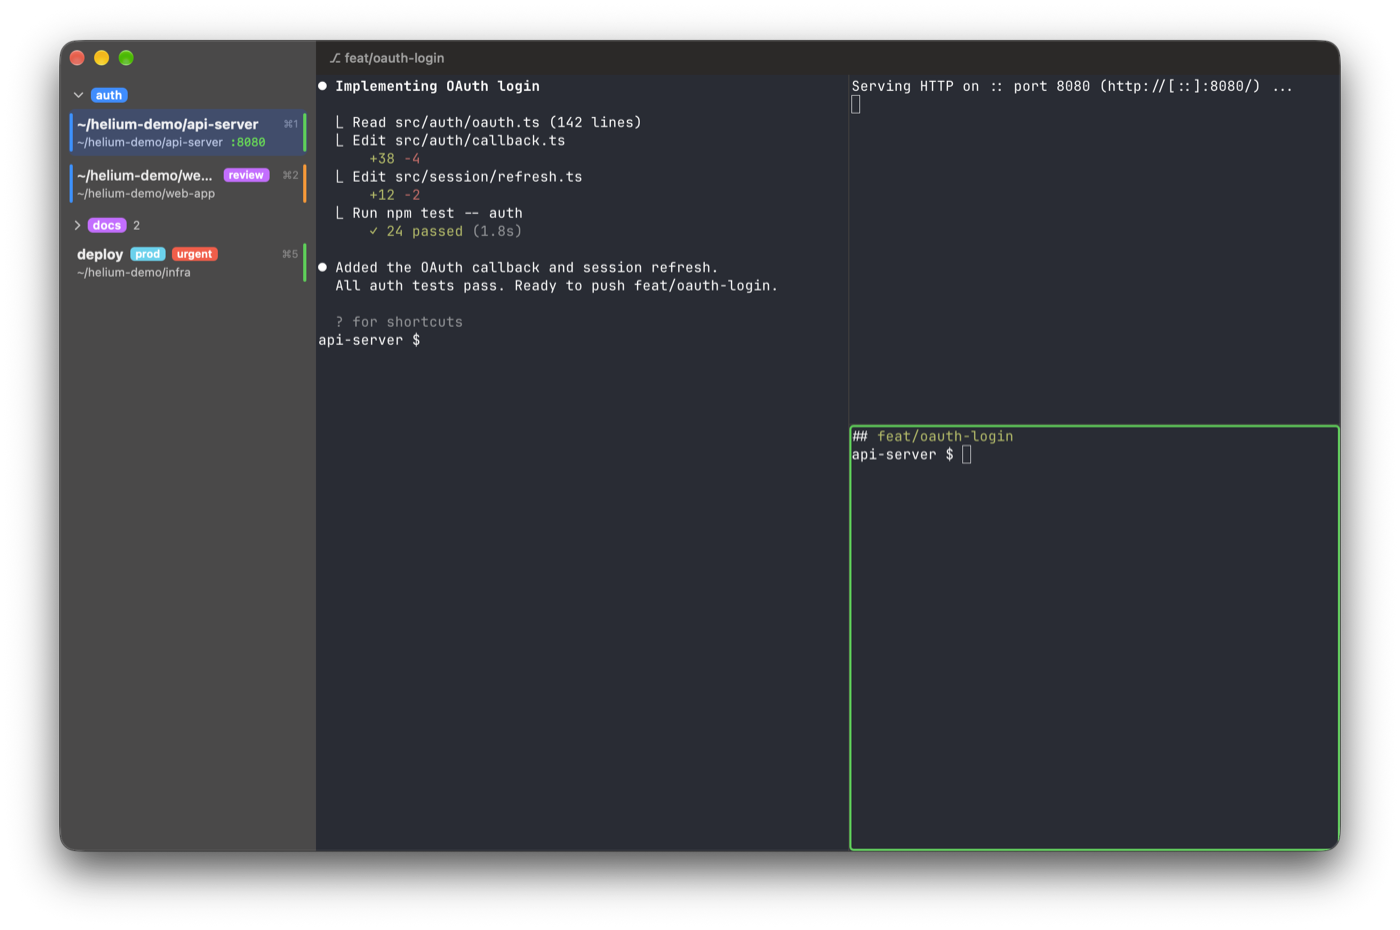
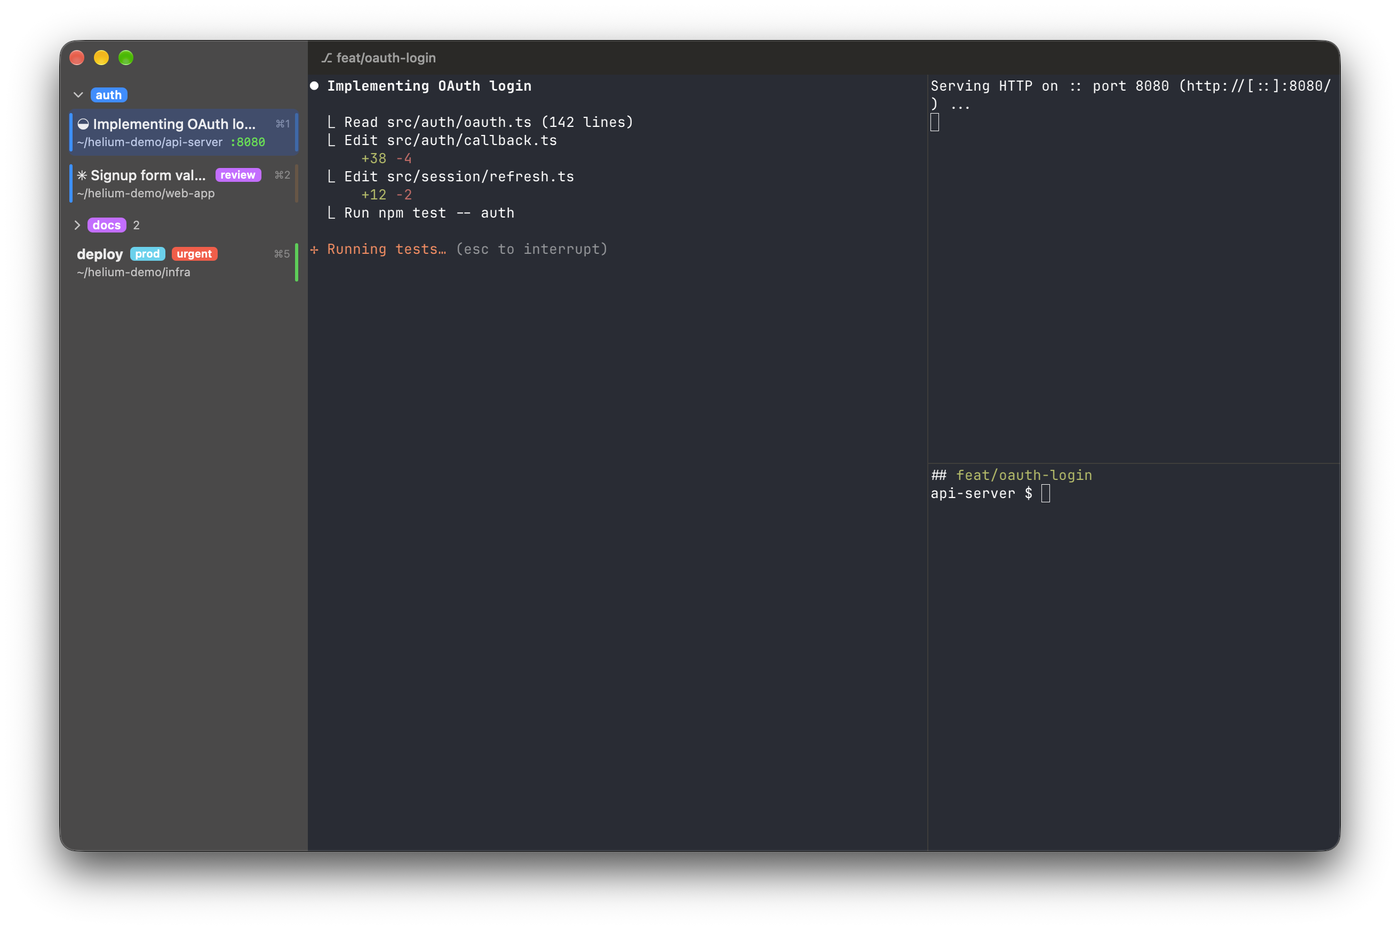
site: an animated demo of the working and waiting edges
A still frame replaces it under prefers-reduced-motion and as the og image.

diff --git a/site/index.html b/site/index.html
@@ -59,12 +59,15 @@
   <p class="tagline">A tiny macOS terminal for coding agents, built on libghostty.</p>
   <p class="links"><a href="#install">Install</a> &middot; <a href="https://github.com/yowmamasita/helium-terminal">GitHub</a></p>
   <div class="shot">
-    <img src="screenshot.webp" fetchpriority="high" width="1400" height="930" alt="Helium Terminal: a sidebar with an auth tab group, a collapsed docs group, colored labels, folders, a listening port and notification edges, next to an agent transcript, a dev server and a shell in split panes with a green notification ring">
+    <picture>
+      <source srcset="screenshot.webp" media="(prefers-reduced-motion: reduce)">
+      <img src="demo.webp" fetchpriority="high" width="1400" height="930" alt="Helium Terminal: a sidebar with an auth tab group, a collapsed docs group, colored labels, folders and a listening port. The tab where an agent is working has a slowly pulsing blue edge, the tab waiting on the user blinks orange, and a finished deploy shows a green edge. Next to it, the agent's transcript, a dev server and a shell in split panes">
+    </picture>
   </div>
 </header>
 
 <section id="features">
-  <p>The sidebar shows every tab's branch, folder and ports. A pane waiting on you turns orange until you answer. Tabs split, group and take labels, and your Claude Code and Codex sessions come back after a quit.</p>
+  <p>The sidebar shows every tab's branch, folder and ports. A tab pulses blue while its agent works, and one waiting on you blinks orange until you answer. Tabs split, group and take labels, and your Claude Code and Codex sessions come back after a quit.</p>
 </section>
 
 <section id="performance">
